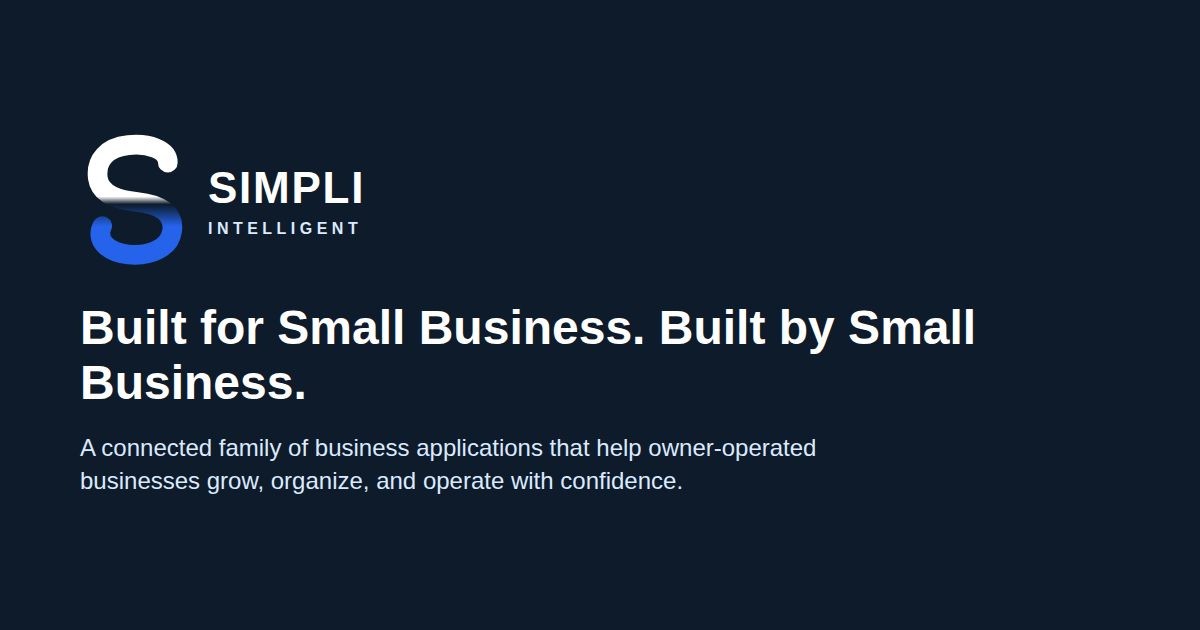
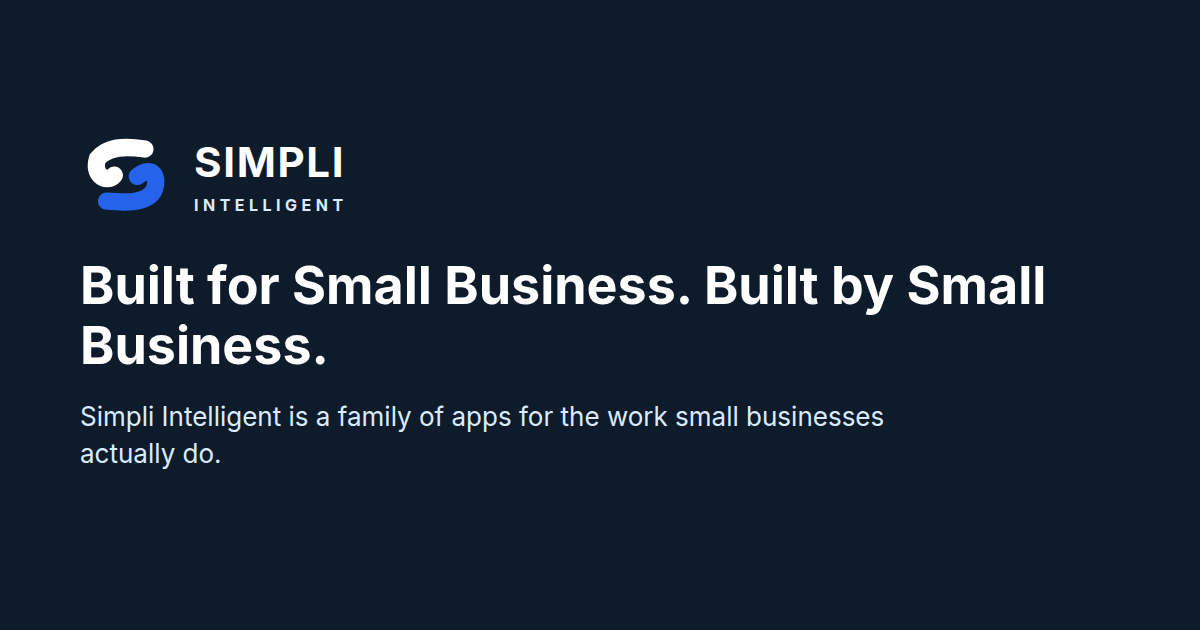
Rebuild the Simpli mark as the interlocking dual-ribbon S.
The shipped stroke was one continuous curve. The approved mark is two thick ribbons with a gap in the spine: white upper bowl and accent lower bowl on navy, navy on light backgrounds.

Changed region(s): [[0.0617, 0.2111, 0.8942, 0.7841]]

diff --git a/src/components/brand/Mark.tsx b/src/components/brand/Mark.tsx
@@ -1,10 +1,18 @@
 import { useId } from "react";
-import { BRAND, MARK_PATH, MARK_VIEWBOX, productAccent, type BrandProduct } from "@/lib/brand";
+import {
+  BRAND,
+  MARK_LOWER,
+  MARK_STROKE,
+  MARK_UPPER,
+  MARK_VIEWBOX,
+  productAccent,
+  type BrandProduct,
+} from "@/lib/brand";
 
 export function Mark({
   product = "intelligent",
   surface = "light",
-  className = "h-10 w-8",
+  className = "h-10 w-10",
   title,
 }: {
   product?: BrandProduct;
@@ -15,6 +23,9 @@ export function Mark({
   const gradientId = `mark-${useId().replace(/:/g, "")}`;
   const accent = productAccent(product);
   const onDark = surface === "dark";
+  const upper = onDark ? BRAND.white : BRAND.navy;
+  const lowerSolid = onDark || product === "intelligent";
+  const lower = onDark ? accent : BRAND.navy;
 
   return (
     <svg
@@ -24,35 +35,28 @@ export function Mark({
       aria-hidden={title ? undefined : true}
       aria-label={title}
     >
-      <defs>
-        <linearGradient id={gradientId} x1="0" y1="0" x2="0" y2="1">
-          {onDark ? (
-            <>
-              <stop offset="0" stopColor={BRAND.white} />
-              <stop offset="0.47" stopColor={BRAND.white} />
-              <stop offset="0.54" stopColor={BRAND.navy} />
-              <stop offset="0.74" stopColor={accent} />
-              <stop offset="1" stopColor={accent} />
-            </>
-          ) : product === "intelligent" ? (
-            <>
-              <stop offset="0" stopColor={BRAND.navy} />
-              <stop offset="1" stopColor={BRAND.navy} />
-            </>
-          ) : (
-            <>
-              <stop offset="0" stopColor={BRAND.navy} />
-              <stop offset="0.42" stopColor={BRAND.navy} />
-              <stop offset="1" stopColor={accent} />
-            </>
-          )}
-        </linearGradient>
-      </defs>
+      {lowerSolid ? null : (
+        <defs>
+          <linearGradient id={gradientId} x1="0" y1="0" x2="0" y2="1">
+            <stop offset="0" stopColor={BRAND.navy} />
+            <stop offset="0.42" stopColor={BRAND.navy} />
+            <stop offset="1" stopColor={accent} />
+          </linearGradient>
+        </defs>
+      )}
       <path
-        d={MARK_PATH}
+        d={MARK_UPPER}
         fill="none"
-        stroke={`url(#${gradientId})`}
-        strokeWidth="18"
+        stroke={upper}
+        strokeWidth={MARK_STROKE}
+        strokeLinecap="round"
+        strokeLinejoin="round"
+      />
+      <path
+        d={MARK_LOWER}
+        fill="none"
+        stroke={lowerSolid ? lower : `url(#${gradientId})`}
+        strokeWidth={MARK_STROKE}
         strokeLinecap="round"
         strokeLinejoin="round"
       />

diff --git a/src/lib/og-card.tsx b/src/lib/og-card.tsx
@@ -1,5 +1,5 @@
 import { ImageResponse } from "next/og";
-import { BRAND, MARK_PATH, MARK_VIEWBOX } from "@/lib/brand";
+import { BRAND, MARK_LOWER, MARK_STROKE, MARK_UPPER, MARK_VIEWBOX } from "@/lib/brand";
 
 export const ogSize = { width: 1200, height: 630 };
 
@@ -20,21 +20,20 @@ export function ogImage(title: string, subtitle: string) {
         }}
       >
         <div style={{ display: "flex", alignItems: "center", marginBottom: 36 }}>
-          <svg viewBox={MARK_VIEWBOX} width="84" height="108" style={{ display: "flex" }}>
-            <defs>
-              <linearGradient id="ogmark" x1="0" y1="0" x2="0" y2="1">
-                <stop offset="0" stopColor={BRAND.white} />
-                <stop offset="0.47" stopColor={BRAND.white} />
-                <stop offset="0.54" stopColor={BRAND.navy} />
-                <stop offset="0.74" stopColor={BRAND.blue} />
-                <stop offset="1" stopColor={BRAND.blue} />
-              </linearGradient>
-            </defs>
+          <svg viewBox={MARK_VIEWBOX} width="92" height="88" style={{ display: "flex" }}>
             <path
-              d={MARK_PATH}
+              d={MARK_UPPER}
               fill="none"
-              stroke="url(#ogmark)"
-              strokeWidth="18"
+              stroke={BRAND.white}
+              strokeWidth={MARK_STROKE}
+              strokeLinecap="round"
+              strokeLinejoin="round"
+            />
+            <path
+              d={MARK_LOWER}
+              fill="none"
+              stroke={BRAND.blue}
+              strokeWidth={MARK_STROKE}
               strokeLinecap="round"
               strokeLinejoin="round"
             />

diff --git a/src/lib/brand.ts b/src/lib/brand.ts
@@ -21,10 +21,13 @@ export const BRAND = {
   operateOnNavy: "#7174F2",
 } as const;
 
-export const MARK_PATH =
-  "M70 20C70 8 52 2 34 4C14 6 4 18 6 34C8 48 22 54 42 56C62 58 76 66 74 82C72 98 54 106 34 104C14 102 4 90 10 78";
-
-export const MARK_VIEWBOX = "-10 -8 100 128";
+/** Interlocking dual-ribbon S. Upper bowl, then a separate lower bowl with a gap in the spine. */
+export const MARK_VIEWBOX = "0 0 90 86";
+export const MARK_STROKE = 17;
+export const MARK_UPPER =
+  "M63.5 16.6C42.1 13.1 26.5 14.6 17.1 26.1C12 42.5 26 50.5 33.6 42.1";
+export const MARK_LOWER =
+  "M56 43.4C73 31 76.2 45.9 73 55.5C66.9 71 42.1 68.9 26 67.6";
 
 export type BrandProduct = "intelligent" | "check" | "operate" | "archive" | "reach";
 

diff --git a/src/components/brand/Lockup.tsx b/src/components/brand/Lockup.tsx
@@ -3,19 +3,19 @@ import { productLineColor, PRODUCT_LINE, type BrandProduct } from "@/lib/brand";
 
 const sizeClass = {
   sm: {
-    mark: "h-8 w-[26px]",
+    mark: "h-8 w-8",
     word: "text-[15px] tracking-[0.04em]",
     line: "mt-1 text-[8px] tracking-[0.22em]",
     gap: "gap-2",
   },
   md: {
-    mark: "h-12 w-10",
+    mark: "h-12 w-12",
     word: "text-[22px] tracking-[0.04em]",
     line: "mt-1.5 text-[10px] tracking-[0.26em]",
     gap: "gap-2.5",
   },
   lg: {
-    mark: "h-16 w-[52px]",
+    mark: "h-16 w-16",
     word: "text-3xl tracking-[0.04em]",
     line: "mt-2 text-xs tracking-[0.28em]",
     gap: "gap-3",

diff --git a/src/components/Footer.tsx b/src/components/Footer.tsx
@@ -6,7 +6,7 @@ export function Footer() {
     <footer className="border-t border-border/70 bg-white">
       <div className="mx-auto max-w-6xl px-5 py-10 sm:px-8">
         <p className="flex items-center gap-2.5 font-display text-sm font-semibold tracking-[0.12em] text-navy">
-          <Mark product="intelligent" surface="light" className="h-7 w-[22px]" />
+          <Mark product="intelligent" surface="light" className="h-7 w-7" />
           {SITE.wordmark}
         </p>
         <nav aria-label="Footer" className="mt-6">
